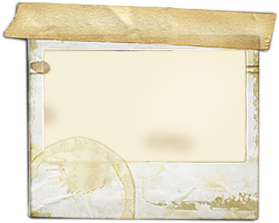
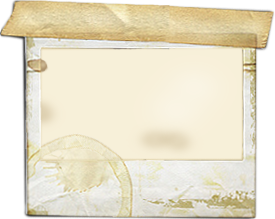
Add draft note backgrounds.

diff --git a/src/App.css b/src/App.css
@@ -19,7 +19,7 @@ body {
   display: grid;
   position: relative;
   grid-template-columns: repeat(9, 1fr);
-  grid-template-rows: repeat(32, 20px);
+  grid-template-rows: repeat(38, 20px);
   rotate: z 1deg;
 }
 
@@ -62,11 +62,11 @@ body {
 }
 
 .polaroid-stained-taped-corners {
-  margin: 0% 0% 0% 0%;
+  margin: 0% 0% 0% 0.5%;
 }
 
 .polaroid-stained-taped-top {
-  margin: -5% 0% 0% -2%;
+  margin: -4.3% 0% 0% -1%;
 }
 
 img {

diff --git a/src/App.js b/src/App.js
@@ -5,6 +5,7 @@ import "./App.css";
 function App() {
   return (
     <div className="App">
+      <br /><br />
       <div className="container">
         <Wall></Wall>
       </div>
